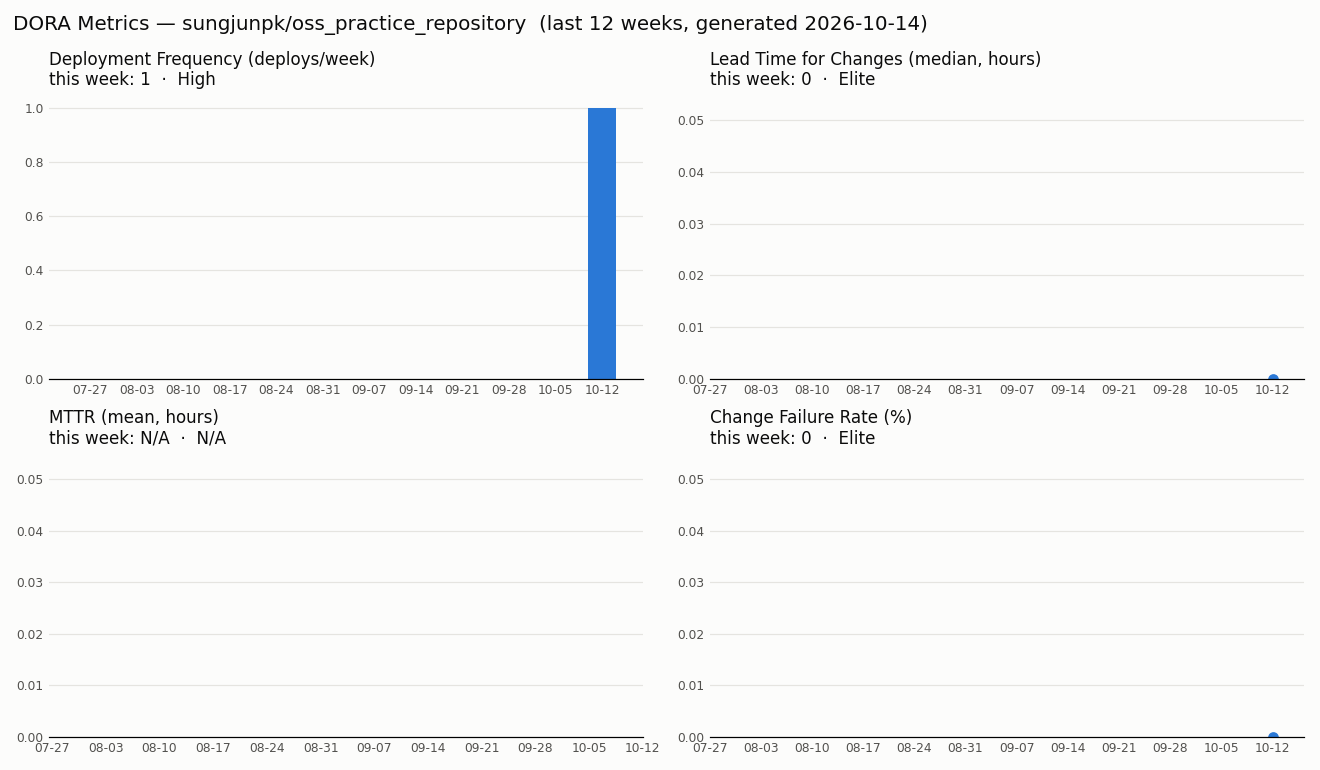
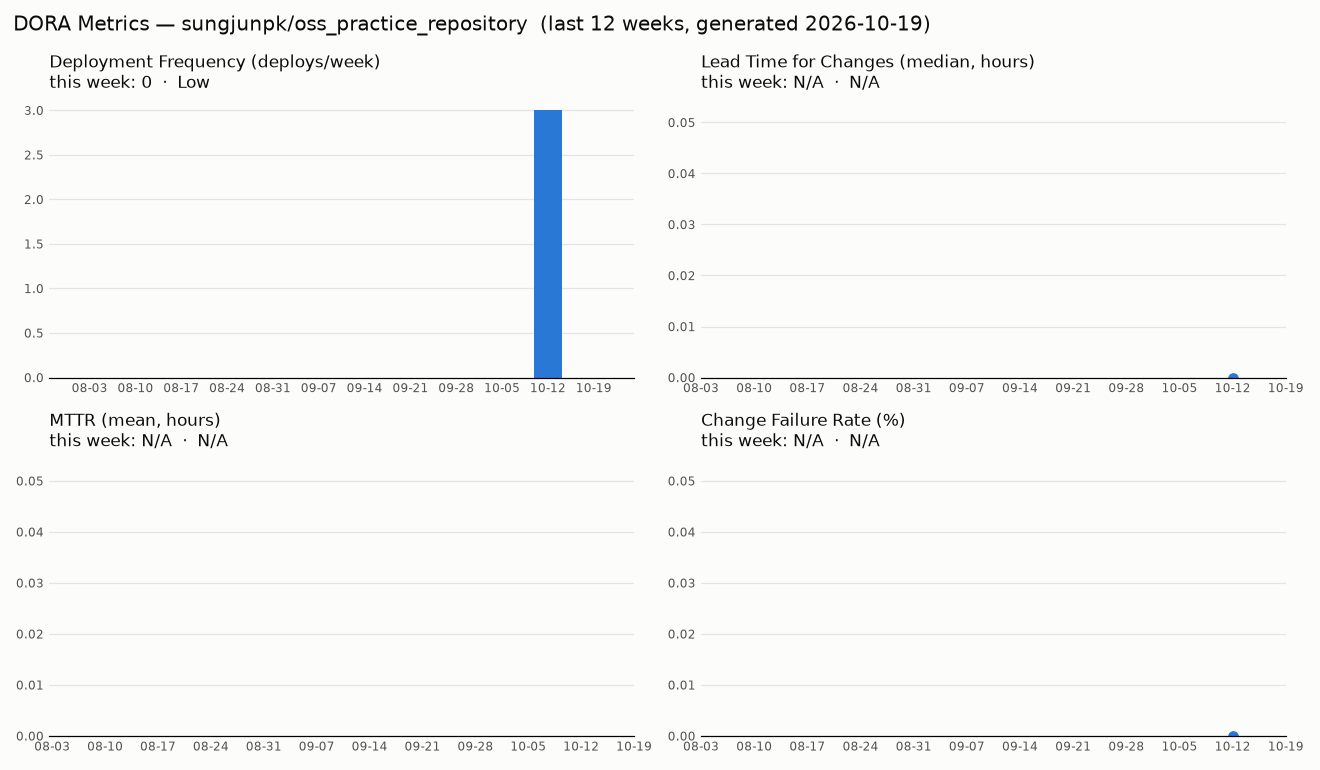
DORA 주간 보고서 갱신 — 2026-10-19

diff --git a/dora/REPORT.md b/dora/REPORT.md
@@ -1,15 +1,15 @@
 # DORA 주간 보고서
 
-> 자동 생성: 2026-10-14 06:17 UTC · `.github/workflows/dora.yml` · 원본 데이터 [`metrics.json`](metrics.json)
+> 자동 생성: 2026-10-19 03:00 UTC · `.github/workflows/dora.yml` · 원본 데이터 [`metrics.json`](metrics.json)
 
-## 이번 주 (2026-10-07 ~ 2026-10-14)
+## 이번 주 (2026-10-12 ~ 2026-10-19)
 
 | 지표 | 값 | 등급 |
 |---|---|---|
-| Deployment Frequency | 1회 (1/주) | High |
+| Deployment Frequency | 3회 (3/주) | High |
 | Lead Time for Changes (중앙값) | 0시간 | Elite |
 | MTTR (평균) | N/A | N/A |
-| Change Failure Rate | 0% (0건 / 1배포) | Elite |
+| Change Failure Rate | 0% (0건 / 3배포) | Elite |
 
 ![DORA dashboard](dashboard.png)
 
@@ -17,7 +17,8 @@
 
 | 주 시작일 | 배포 | Lead Time | MTTR | CFR |
 |---|---|---|---|---|
-| 2026-10-12 | 1 | 0h | N/A | 0% |
+| 2026-10-19 | 0 | N/A | N/A | N/A |
+| 2026-10-12 | 3 | 0h | N/A | 0% |
 | 2026-10-05 | 0 | N/A | N/A | N/A |
 | 2026-09-28 | 0 | N/A | N/A | N/A |
 | 2026-09-21 | 0 | N/A | N/A | N/A |
@@ -28,7 +29,6 @@
 | 2026-08-17 | 0 | N/A | N/A | N/A |
 | 2026-08-10 | 0 | N/A | N/A | N/A |
 | 2026-08-03 | 0 | N/A | N/A | N/A |
-| 2026-07-27 | 0 | N/A | N/A | N/A |
 
 ## 측정 정의
 - **배포**: `main` 브랜치 push 1회 (trunk-based). 워크플로우 실행 이력에서 수집.
